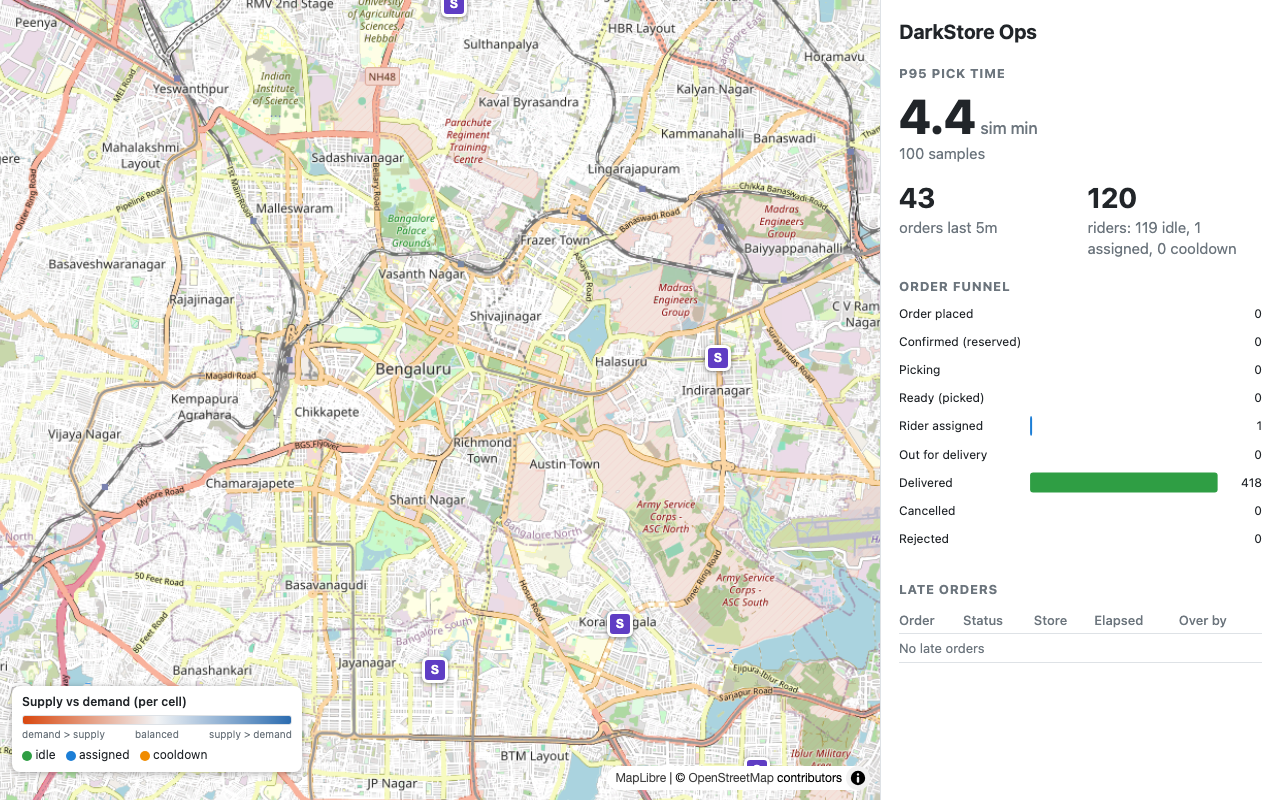
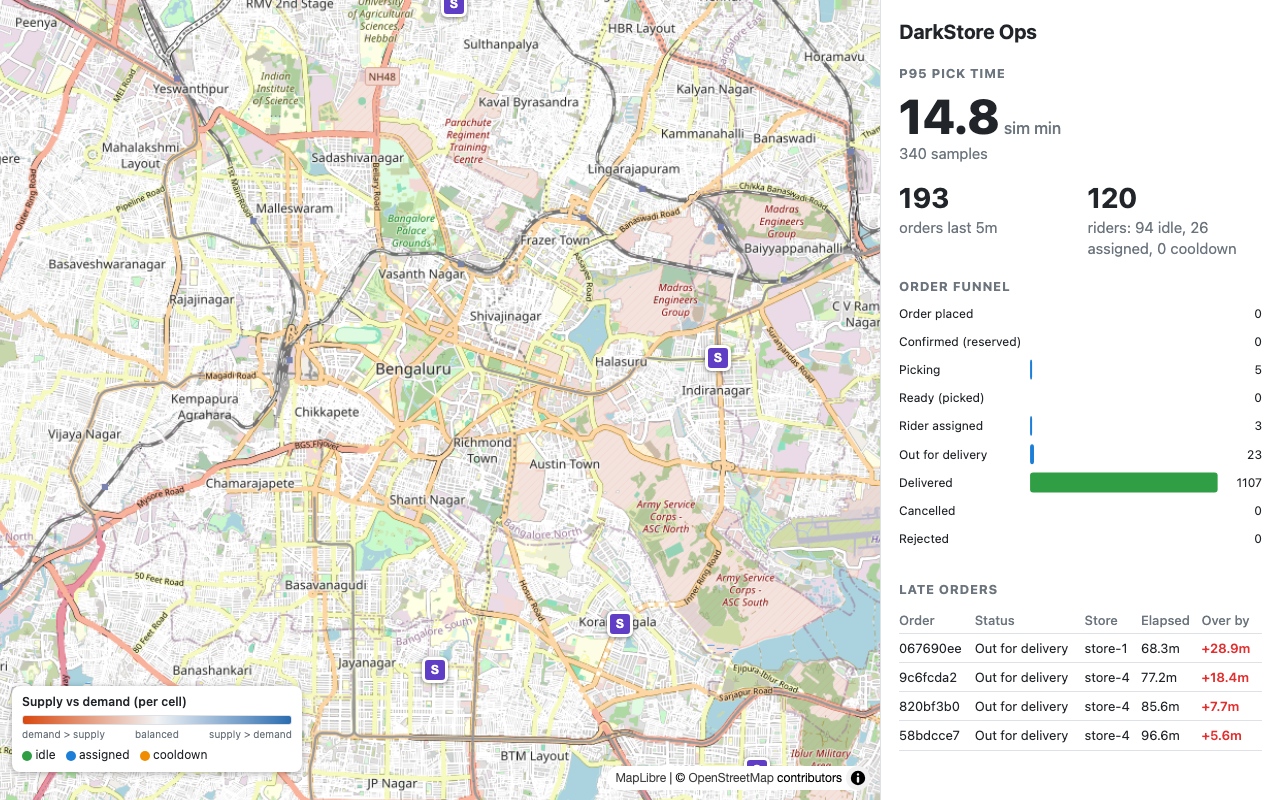
build: run entirely from Docker (web image, trainer container), size demo under fleet capacity
- web/Dockerfile: multi-stage build of both React apps into the nginx image; no host Node needed
- Dockerfile: named app target + trainer target (app image + mlflow-skinny); compose trainer
  service (profile tools) behind make train / make retrain; ops URL token generated in the order container
- make up no longer depends on host npm; creates bind-mount dirs so Docker does not create them root-owned
- demo defaults: SIM_ORDERS_PER_MINUTE 3 -> 1, SIM_START_HOUR 18 -> 16 (old defaults asked ~3x the fleet's
  delivery capacity, so orders queued for minutes); README/runbook/development notes updated with measured numbers

Verified: make demo from scratch with uv/node/npm off PATH exits 0; container-trained model reports the
same metrics as the host-trained one (seed 42); e2e 6/6 against the container-built UI.

diff --git a/scripts/ops_token.py b/scripts/ops_token.py
@@ -7,7 +7,7 @@ from pathlib import Path
 from darkstore_common.tokens import sign
 
 secret = os.environ.get("TOKEN_SECRET")
-env = Path(__file__).resolve().parent.parent / ".env"
+env = Path.cwd() / ".env"   # repo root under make; inside the order container TOKEN_SECRET is already in the env
 if not secret and env.exists():
     secret = dict(line.split("=", 1) for line in env.read_text().split() if "=" in line).get("TOKEN_SECRET")
 if not secret:

diff --git a/README.md b/README.md
@@ -5,10 +5,19 @@ A real-time quick-commerce order and ETA platform (Instamart / Zepto style) that
 ```bash
 make up      # build + start ~20 containers, wait until healthy, print URLs
 make demo    # train the ETA model if needed, start the order simulator, print live stats + URLs
-make test    # unit tests          make test-int   # integration tests (testcontainers)
-make e2e     # Playwright          make chaos SCENARIO=kill-picking   make load
 make down    # stop                make clean      # stop and wipe volumes (needed once after pulling P7: DB roles changed)
 ```
+
+**Running it needs only Docker (Compose v2, with about 4 GB given to the Docker VM) and `make`.** Everything is built and run in containers: the Python services share one image, the React apps are built in the `web` image (multi-stage, Node only inside the build), and the ETA model is trained by a one-shot `trainer` container (`make train`, `make retrain`). I checked this by running `make demo` from scratch (volumes wiped, built web assets and trained model moved aside) with `uv`, `node` and `npm` removed from `PATH`: it finished with exit 0 and orders were delivered.
+
+Host tooling is only for development and verification: `uv` for `make test` / `test-int` / `chaos` / `load`, Node for `make e2e` and front-end work (`make web`).
+
+```bash
+make test    # unit tests          make test-int   # integration tests (testcontainers)
+make e2e     # Playwright          make chaos SCENARIO=kill-picking   make load
+```
+
+The demo simulator is sized to stay under the rider fleet's capacity: 1 order per simulated minute at base demand (`SIM_ORDERS_PER_MINUTE`, 30x clock, so 0.5/s before the rush multipliers), starting at 16:00 (`SIM_START_HOUR`) so the evening rush arrives a few minutes in. Measured on this machine through the lunch peak (sim hour ~13, about 1.1 orders/s target): 551 orders delivered in 15 minutes, order-to-delivered p50 103 s and p95 200 s, assignment backlog 0-1. City-wide destinations make trips longer than in the load test, which is why these are slower than the load-ramp table. The earlier defaults (3 per simulated minute, starting at 18:00) asked for 1.5 orders/s at base and 4.5/s in the evening peak against a fleet that delivers about 1 order/s on those trips, so orders queued for many minutes (656 waiting after 33 minutes). That is a demo-sizing issue, not a platform fault; raise the rate to watch the backlog and the SLO alerts react.
 
 Everything below that is a number was measured on one MacBook (Docker VM ~4 GB / 8 CPUs, 120 simulated riders, six dark stores). Nothing is extrapolated. Raw files are linked next to each table.
 
@@ -118,7 +127,8 @@ Audit, fixes and the full threat discussion are in [ADR-0007](docs/adr/0007-gues
 - No per-customer cap on active orders: unassigned orders hold stock reservations until they time out. Mitigated only by the session and order rate limits at nginx.
 - Dev ports (Postgres, Redis, Prometheus, Grafana, MLflow, Console) are unauthenticated or lightly protected and bound to loopback only. No Kafka SASL/TLS, no Alertmanager, images pinned by tag not digest.
 - The scorer has a batching term that is unused (riders carry one order).
-- Playwright is installed through npm and LightGBM needs `libomp` from Homebrew on macOS.
+- Playwright (`make e2e`) is installed through npm on the host. Everything else, including LightGBM training, runs in containers.
+- The one-image-for-all-services Docker image is about 1.75 GB (LightGBM, pandas, pyarrow ship in every service). Per-service images would be smaller; not done.
 - Outbox rows marked published cannot be reconciled against the broker (would need a reconciler; see ADR-0008).
 
 ## What I would change at Swiggy / Zepto scale

diff --git a/docs/ml/eta-report.md b/docs/ml/eta-report.md
@@ -1,4 +1,4 @@
-# ETA model report: 20261113071018-s42
+# ETA model report: 20261114084956-s42
 
 Held-out test = the last 15% of trips by order time (6000 trips, 24000 state snapshots; days 227-267). Train 28000 / val 6000 trips. All numbers are on SIMULATED trips (see docs/ml/README.md).
 
